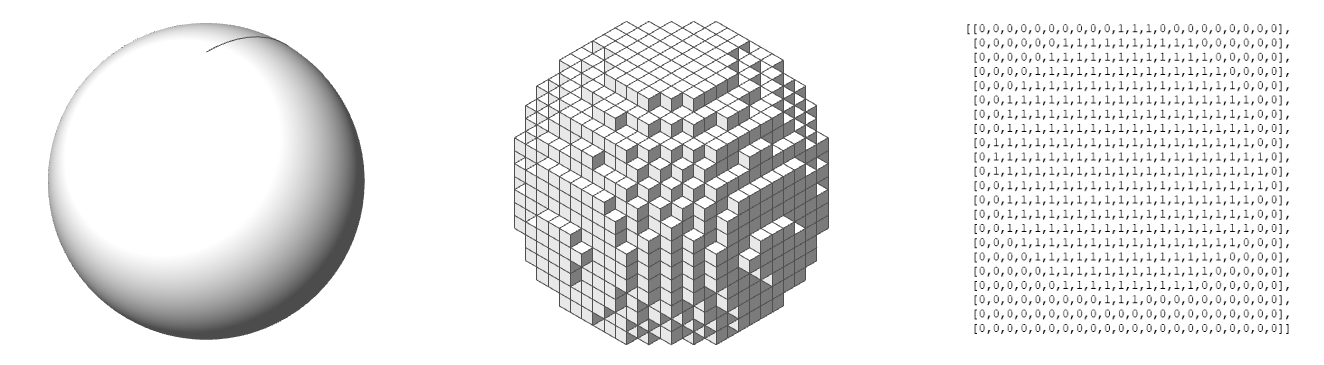
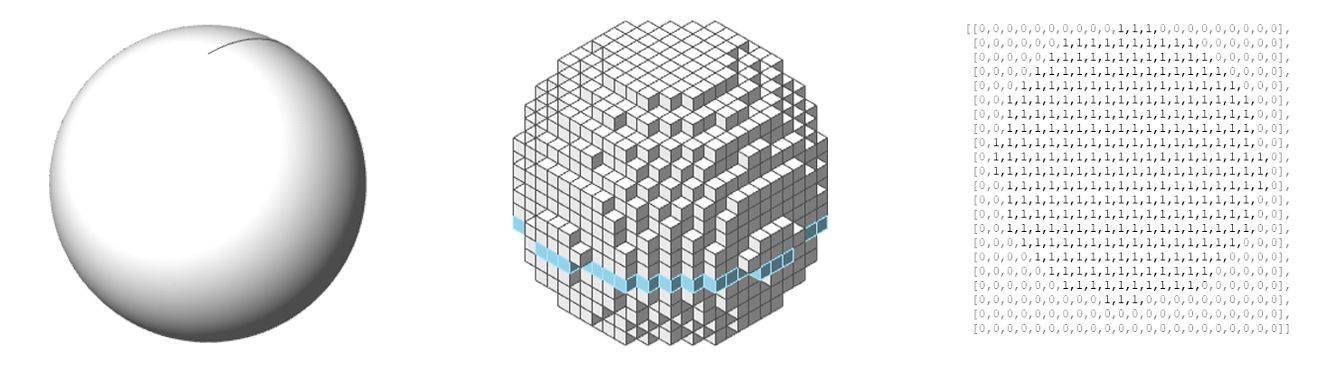
voxelate-2 img modification

diff --git a/testbed/_posts/2023-01-16-voxelate.html b/testbed/_posts/2023-01-16-voxelate.html
@@ -45,7 +45,7 @@ featured: true
     This grid of voxels can be represented as a <code>List,</code> one of Python's data structures. And the data structure List can express <code>multi-dimensional</code> data.
     Let's take a look at a simple example below. 
     <br><br>
-    The given simple conditions are as follows. <i>① voxel size: 3.5 ② given shape: sphere that radius: 20</i>. As mentioned earlier, in the last picture below you can see the voxel data structure represented as a List in Python.
+    The given simple conditions are as follows. <i>① voxel size: 2.0 ② given shape: sphere that radius: 20.0</i>. As mentioned earlier, in the last picture below you can see the voxel data structure represented as a List in Python.
     Data of <code>0</code> means empty voxels and data of <code>1</code> means filled voxels.
     We can determine each voxel condition through the data we have. Examples include <code>interior voxels, exterior voxels, corner voxels, and roof voxels</code> etc.
 
